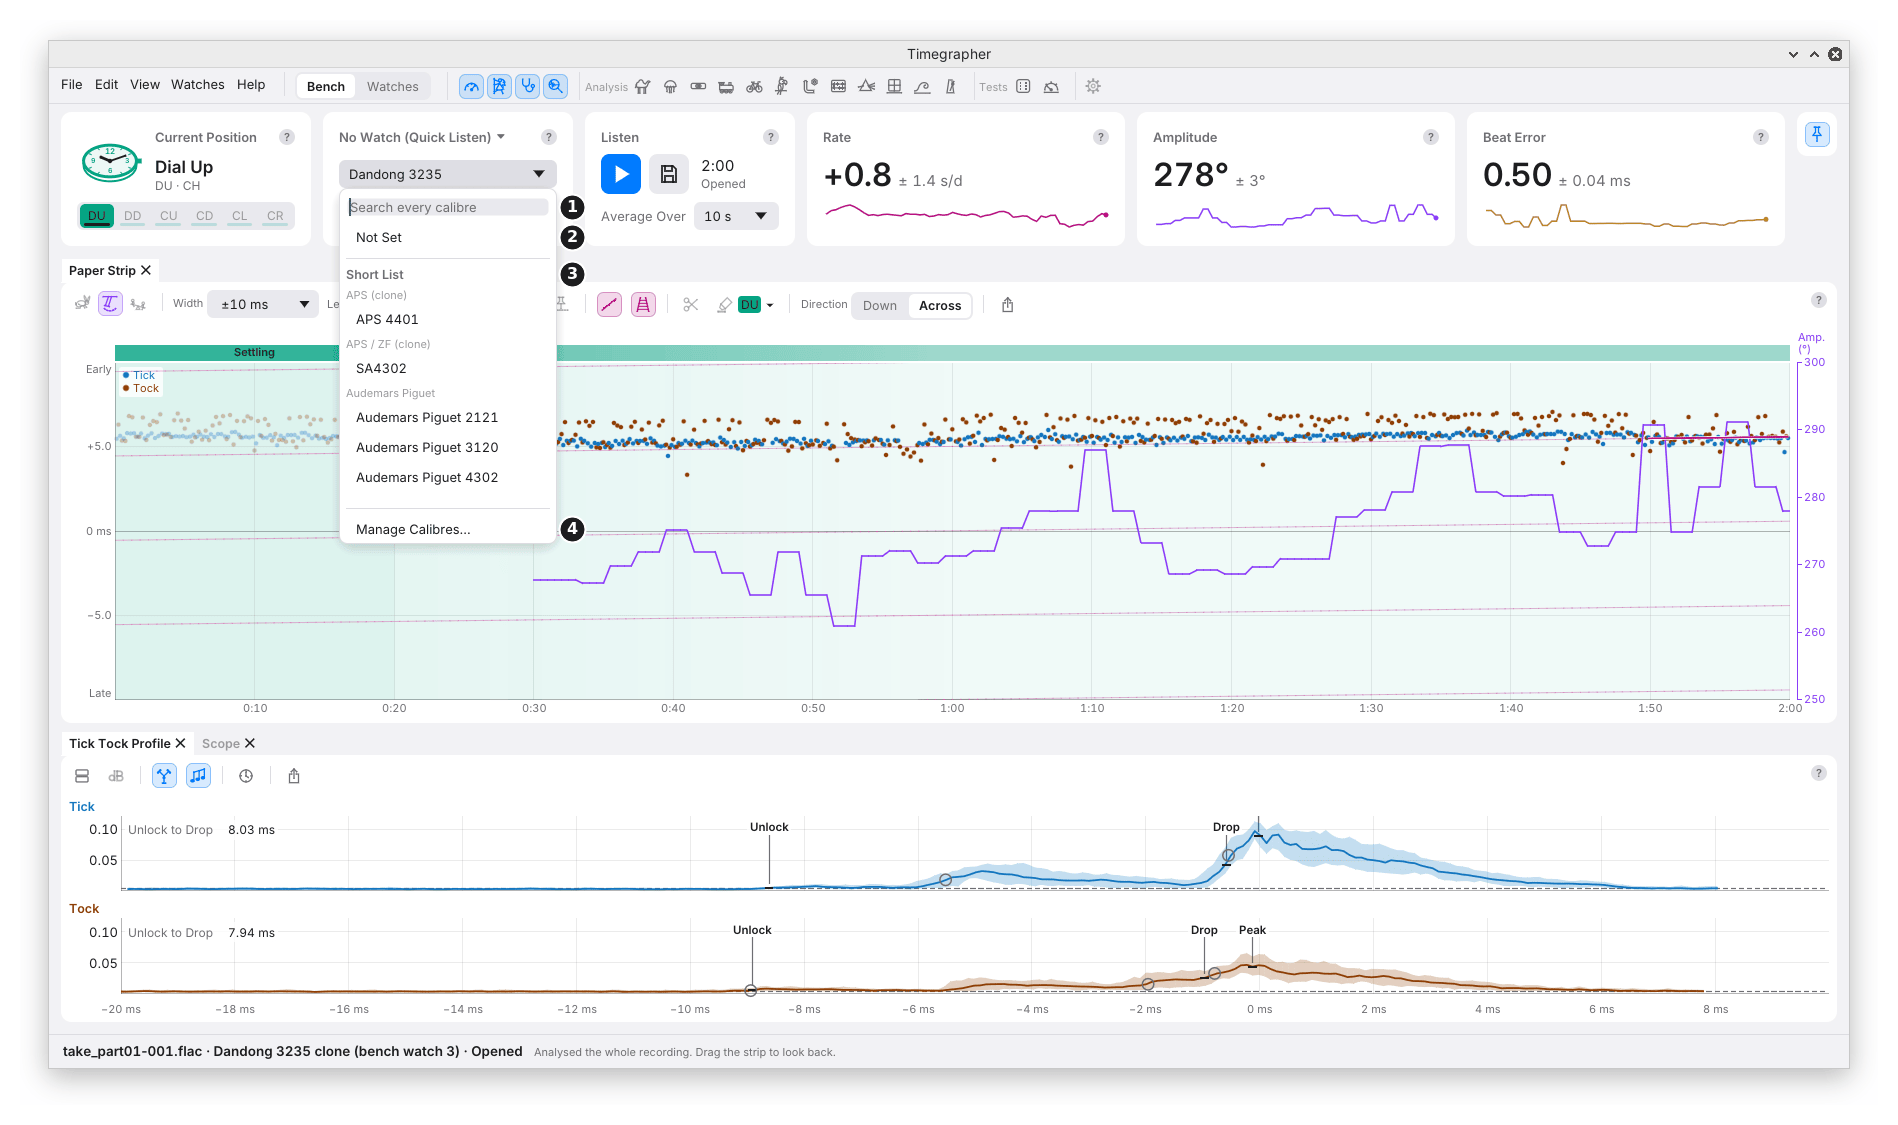
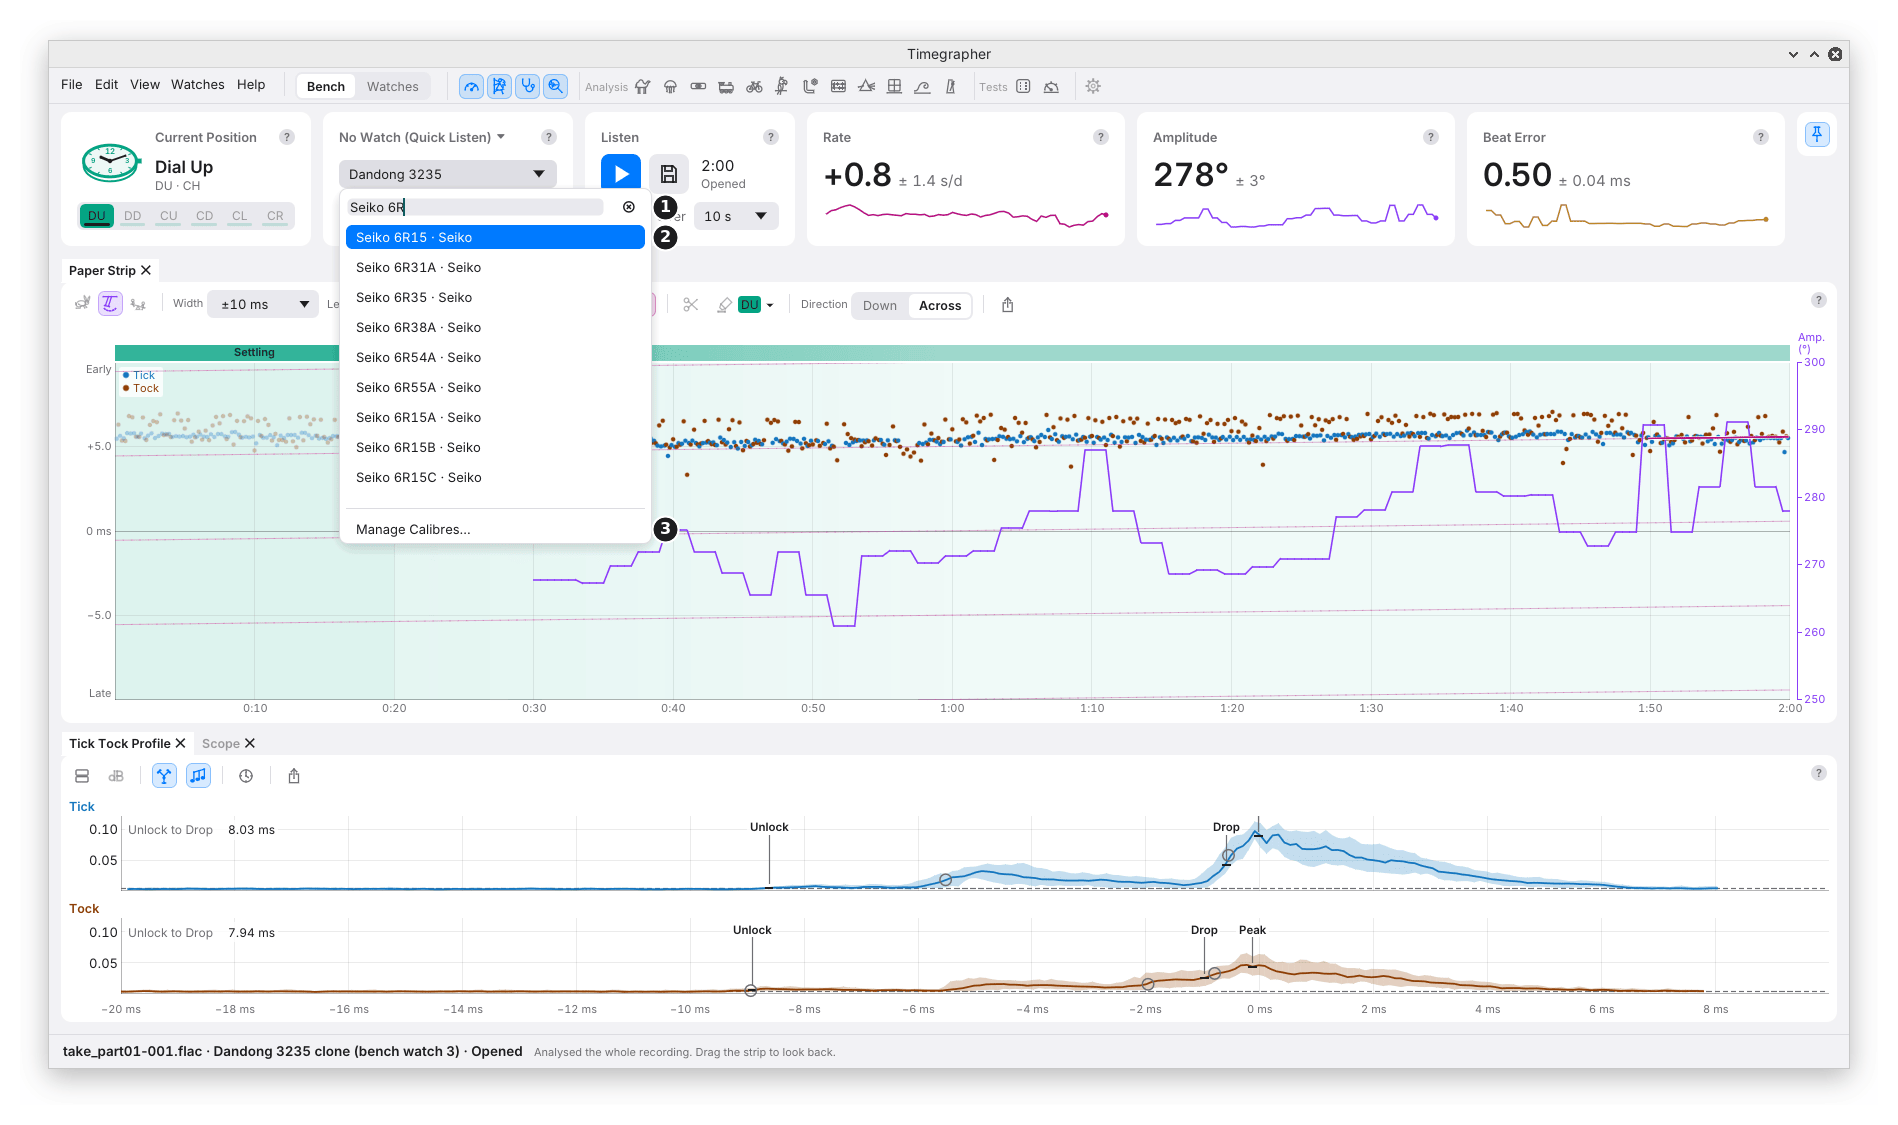
User guide: the Rate hover for a live and an opened take, M3 to match, and the Calibre pop-up shown with a search (Walter's review)
Claude-Session: https://claude.ai/code/session_01QSxqxVf77FmFmJZGMCy8kd

Changed region(s): [[0.1865, 0.1556, 0.373, 0.4978]]

diff --git a/docs/user-guide/05-the-readings-cards.md b/docs/user-guide/05-the-readings-cards.md
@@ -46,14 +46,17 @@ rate.
 
 ### Picking a Calibre
 
-![The Calibre pop-up open, marks 1 to 4](images/calibre-picker.png)
+![The Calibre pop-up open with "Seiko 6R" typed, marks 1 to 3](images/calibre-picker.png)
 
 | Mark | Part | What it does |
 | --- | --- | --- |
-| 1 | **Search every calibre** | Matches a calibre's name, another name for it, or its maker. ↑ and ↓ move through the matches; Enter picks one. |
-| 2 | **Not Set** | Back to no calibre: Auto and 52°. |
-| 3 | The lists | **Recent** (the last six calibres used), the **Short List** by maker, and **Custom**, your own. |
-| 4 | **Manage Calibres…** | Opens Settings at Calibres, to add your own or change the Short List. See chapter 24. |
+| 1 | **Search every calibre** | Matches a calibre's name, another name for it, or its maker. ⊗ or Esc clears it. |
+| 2 | The matches | ↑ and ↓ move through them; Enter picks the highlighted one. |
+| 3 | **Manage Calibres…** | Opens Settings at Calibres, to add your own or change the Short List. See chapter 24. |
+
+With the search empty, the menu offers **Not Set** (back to Auto and
+52°), then **Recent** (the last six calibres used), the **Short List** by
+maker, and **Custom**, your own calibres.
 
 - **What a calibre sets:** its beat rate, and its lift angle where the
   table has one. They then show as text, not as controls.
@@ -129,7 +132,7 @@ Rest the pointer on a figure to see what stands behind it.
 
 | Card | The hover adds |
 | --- | --- |
-| **Rate** | The rate corrected onto true time, labelled **True Clock**, when the sound card's clock is known. The beats the readings are fitted to ("79 beats in 10 s"), and the **jitter**. |
+| **Rate** | The sound card's clock (M3). **Listening,** with a correction kept for the input, the big figure stays on the card's clock and the hover adds the corrected rate, labelled **True Clock**. **On an opened take** with its own clock (a clock log, USB lines, or a correction saved with it), the big figure is already corrected, and the hover says by how much and from what, as in the picture. Then the beats the readings are fitted to ("79 beats in 10 s"), and the **jitter**. |
 | **Amplitude** | The amplitude of the Ticks and of the Tocks, apart. |
 | **Beat Error** | The beat error timed from the drop, beside the big figure's, timed from the unlock. |
 

diff --git a/docs/user-guide/m3-the-sound-cards-clock.md b/docs/user-guide/m3-the-sound-cards-clock.md
@@ -46,10 +46,13 @@ has, in this order:
   minutes it is a far better reference than the card's crystal.
 - **USB lines need no log,** so a recording made in another app can still
   be corrected, if it came through a USB microphone.
-- **The Rate card's big figure stays on the card's clock** while you
-  listen, the clock other timegraphers and `timegrapher analyze` read on,
-  so figures can be compared with theirs. The corrected rate is in the
-  hover, as **True Clock**.
+- **While you listen, the Rate card's big figure stays on the card's
+  clock,** the clock other timegraphers and `timegrapher analyze` read
+  on, so figures can be compared with theirs. The corrected rate is in
+  the hover, as **True Clock**.
+- **On an opened take with its own clock,** from a clock log, USB lines
+  or a correction saved with it, the big figure is corrected, and the
+  hover says by how much and from what source.
 
 ## When You'd Use It
 
